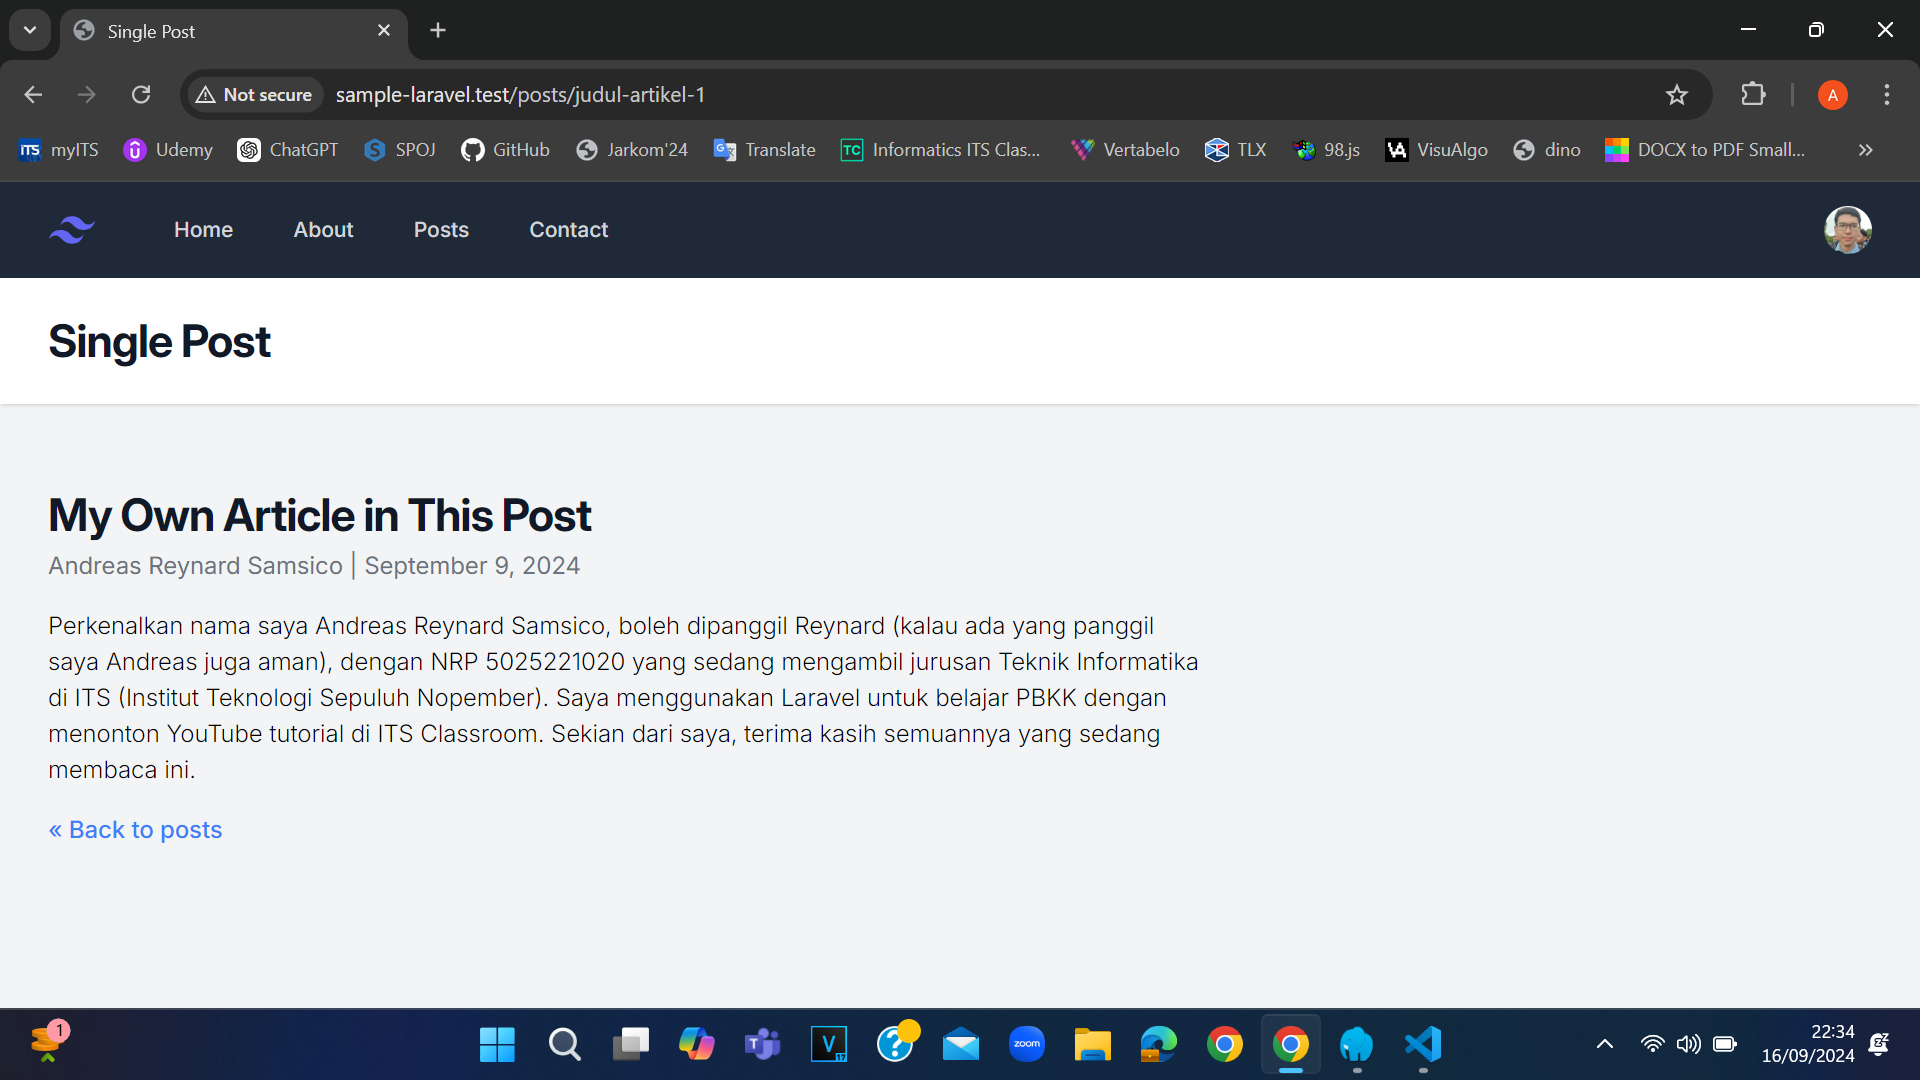
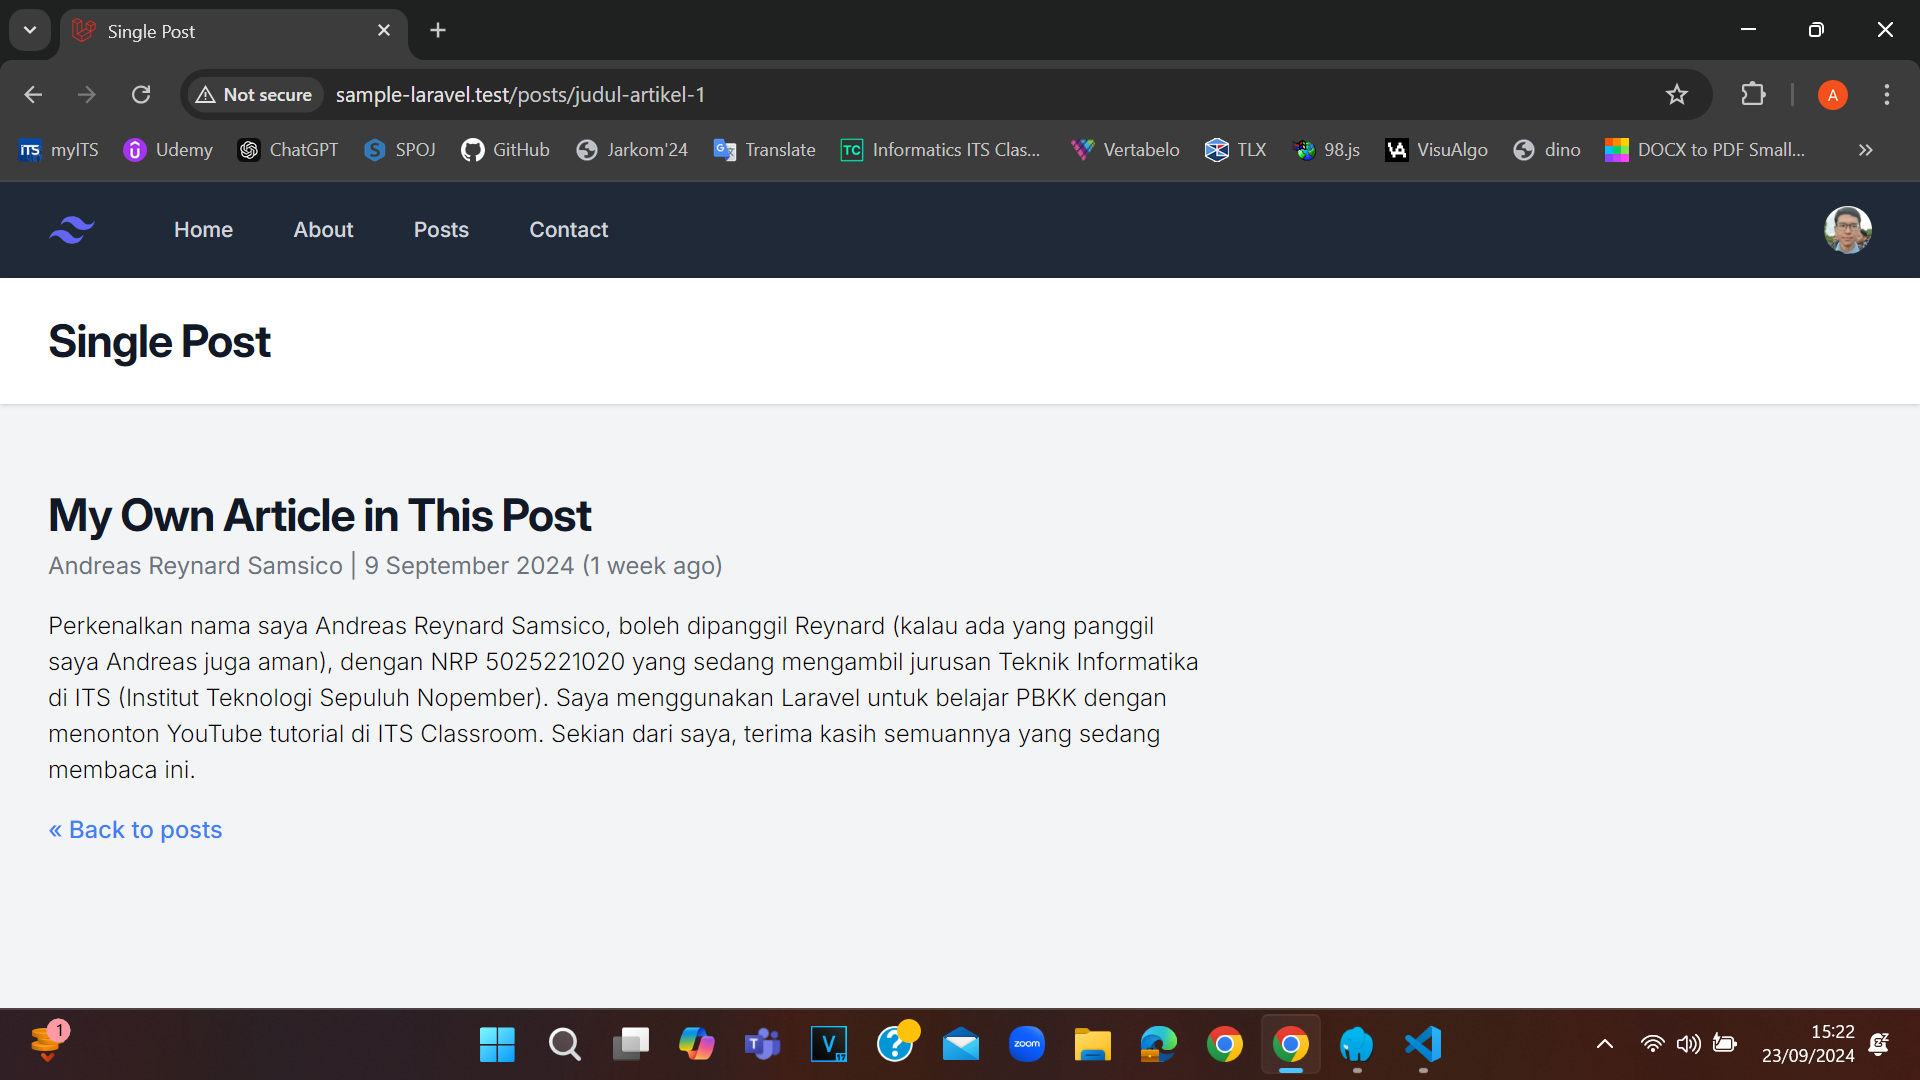
Update Besar Ke-2
{{ $description }}

diff --git a/app/Models/Post.php b/app/Models/Post.php
@@ -2,35 +2,9 @@
 
 namespace App\Models;
 
-use Illuminate\Support\Arr;
+use Illuminate\Database\Eloquent\Model;
 
-class Post
+class Post extends Model
 {
-    public static function all()
-    {
-        return [
-            [
-                'slug' => 'judul-artikel-1',
-                'title' => 'My Own Article in This Post',
-                'author' => 'Andreas Reynard Samsico',
-                'body' => 'Perkenalkan nama saya Andreas Reynard Samsico, boleh dipanggil Reynard (kalau ada yang panggil saya Andreas juga aman), dengan NRP 5025221020 yang sedang mengambil jurusan Teknik Informatika di ITS (Institut Teknologi Sepuluh Nopember). Saya menggunakan Laravel untuk belajar PBKK dengan menonton YouTube tutorial di ITS Classroom. Sekian dari saya, terima kasih semuannya yang sedang membaca ini.'
-            ],
-            [
-                'slug' => 'judul-artikel-2',
-                'title' => 'Dummy Article',
-                'author' => 'Cicero',
-                'body' => 'Lorem ipsum dolor sit amet, consectetur adipiscing elit. Nunc eu diam scelerisque, gravida ex at, malesuada lacus. Lorem ipsum dolor sit amet, consectetur adipiscing elit. Sed posuere faucibus velit, ut semper quam vulputate sed. Integer mollis nunc at enim euismod iaculis eget at dolor. Nunc malesuada enim vel tempor molestie. Nunc aliquet elementum odio ut rhoncus. Vivamus sed condimentum sem. Mauris porta tellus eros, id ultrices lacus tincidunt at. Nulla libero libero, accumsan a lacinia eu, eleifend in purus. Morbi mattis mauris quis eros finibus, in fermentum nulla dapibus. Mauris sodales metus tellus, eu vestibulum tortor mollis auctor.'
-            ]
-        ];
-    }
-    
-    public static function find($slug): array
-    {
-        $post = Arr::first(static::all(), fn ($post) => $post['slug'] == $slug);
-        if(! $post) {
-            abort(404);
-        }
-        return $post;
-    }
-    
+    protected $fillable = ['title', 'author', 'slug', 'body'];
 }

diff --git a/database/migrations/2024_09_23_055036_create_posts_table.php b/database/migrations/2024_09_23_055036_create_posts_table.php
@@ -1,0 +1,31 @@
+<?php
+
+use Illuminate\Database\Migrations\Migration;
+use Illuminate\Database\Schema\Blueprint;
+use Illuminate\Support\Facades\Schema;
+
+return new class extends Migration
+{
+    /**
+     * Run the migrations.
+     */
+    public function up(): void
+    {
+        Schema::create('posts', function (Blueprint $table) {
+            $table->id();
+            $table->string('title');
+            $table->string('author');
+            $table->string('slug')->unique();
+            $table->text('body');
+            $table->timestamps();
+        });
+    }
+
+    /**
+     * Reverse the migrations.
+     */
+    public function down(): void
+    {
+        Schema::dropIfExists('posts');
+    }
+};

diff --git a/resources/views/posts.blade.php b/resources/views/posts.blade.php
@@ -6,7 +6,7 @@
                 <h2 class="mb-1 text-3xl tracking-tight font-bold text-gray-900">{{ $post['title'] }}</h2>
             </a>
             <div class="text-base text-gray-500">
-                <a href="#">{{ $post['author'] }}</a> | September 9, 2024
+                <a href="#">{{ $post['author'] }}</a> | {{ $post->created_at->format('j F Y') }} ({{ $post->created_at->diffForHumans() }})
             </div>
             <p class="my-4 font-light">{{ Str::limit($post['body'], 150) }}</p>
             <a href="/posts/{{ $post['slug'] }}" class="font-medium text-blue-500 hover:underline">Read more &raquo;</a>

diff --git a/resources/views/post.blade.php b/resources/views/post.blade.php
@@ -3,7 +3,7 @@
     <article class="py-8 max-w-screen-md">
         <h2 class="mb-1 text-3xl tracking-tight font-bold text-gray-900">{{ $post['title'] }}</h2>
         <div class="text-base text-gray-500">
-            <a href="#">{{ $post['author'] }}</a> | September 9, 2024
+            <a href="#">{{ $post['author'] }}</a> | {{ $post->created_at->format('j F Y') }} ({{ $post->created_at->diffForHumans() }})
         </div>
         <p class="my-4 font-light">{{ $post['body'] }}</p>
         <a href="/posts" class="font-medium text-blue-500 hover:underline">&laquo; Back to posts</a>

diff --git a/routes/web.php b/routes/web.php
@@ -16,8 +16,7 @@ Route::get('/posts', function () {
     return view('posts', ['title' => 'Posts', 'posts' => Post::all()]);
 });
 
-Route::get('/posts/{slug}', function ($slug) {
-    $post = Post::find($slug);
+Route::get('/posts/{post:slug}', function (Post $post) {
     return view('post', ['title' => 'Single Post', 'post' => $post]);
 });
 

diff --git a/README.md b/README.md
@@ -22,11 +22,13 @@ Rute halaman ini menggambarkan laman _about_ dari web ini yang juga mempunyai na
 
 ![posts](public/img/posts.png)
 
-Rute halaman ini menggambarkan laman _posts_ dari web Laravel ini yang isinya memuat 2 buah artikel. Artikel berjudul "__My Own Article in This Post__" mencertitakan tentang diri saya sendiri dan ucapan terima kasih, sedangkan yang berjudul "__Dummy Article__" hanyalah 1 buah paragraf _lorem ipsum_. Namun pada halaman posts utama ini, isi dari tiap artikel dibatasi sebanyak 150 karakter, sehingga jika ingin melihatnya secara keseluruhan, maka ada keharusan untuk klik tulisan judul atau "__Read more >>__" tiap artikel dan nantinya masuk ke laman _single post_ pada artikel tersebut. Perhatikan gambar-gambar di bawah ini untuk melihat tampilan web rute '/posts/judul-artikel-1' dan '/posts/judul-artikel-2'. Klik "__<< Back to post__" untuk kembali ke menu posts utama tadi.
+Rute halaman ini menggambarkan laman _posts_ dari web Laravel ini yang isinya memuat 3 buah artikel. Artikel berjudul "__My Own Article in This Post__" mencertitakan tentang diri saya sendiri dan ucapan terima kasih, sedangkan yang berjudul "__Dummy Article__" hanyalah 1 buah paragraf _lorem ipsum_, dan yang berjudul "__30-word Post__" tentang artikel acak tentang AI. Semua informasi berupa judul, penulis, slug, tubuh, dan _timestamp_ dibuatkannya telah disimpan ke suatu _database_. Namun pada halaman posts utama ini, isi dari tiap artikel dibatasi sebanyak 150 karakter, sehingga jika ingin melihatnya secara keseluruhan, maka ada keharusan untuk klik tulisan judul atau "__Read more >>__" tiap artikel dan nantinya masuk ke laman _single post_ pada artikel tersebut. Perhatikan gambar-gambar di bawah ini untuk melihat tampilan web rute '/posts/judul-artikel-1', '/posts/judul-artikel-2', dan '/posts/ai-slug'. Klik "__<< Back to post__" untuk kembali ke menu posts utama tadi.
 
 ![post1](public/img/post1.png)
 
 ![post2](public/img/post2.png)
+
+![post3](public/img/post3.png)
 
 Namun selain rute-rute di atas, dikarenakan adanya abort(404), pastinya web tujuan aslinya akan dialihkan menuju ke rute '/404' yang terbaca "__404 | NOT FOUND__", seperti gambar di bawah.
 
